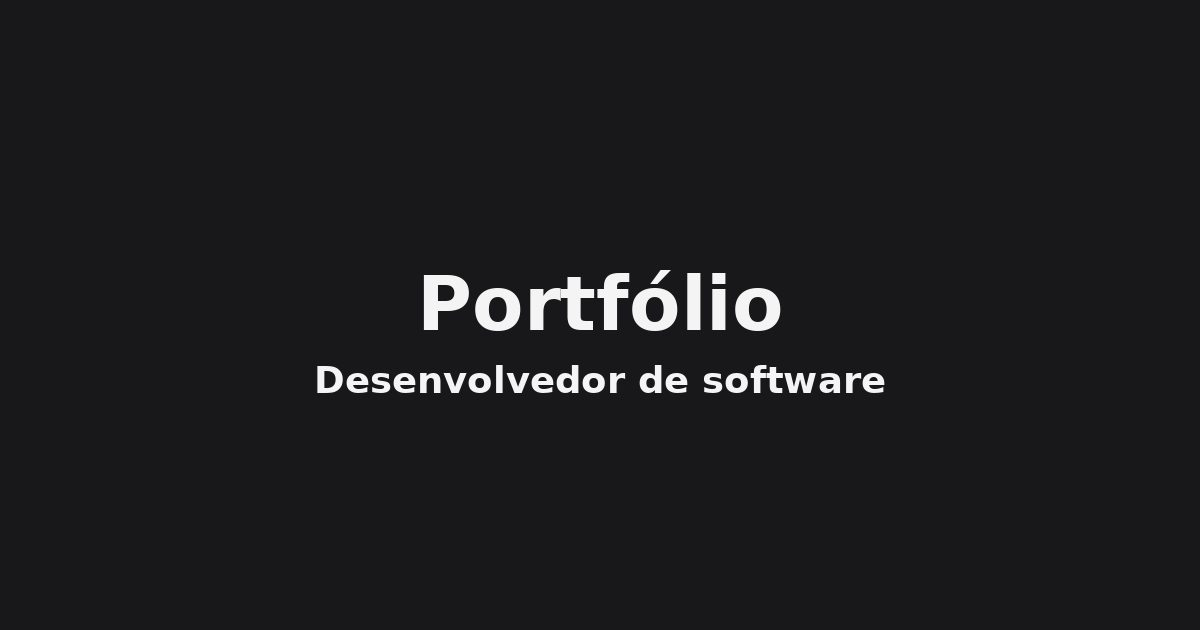
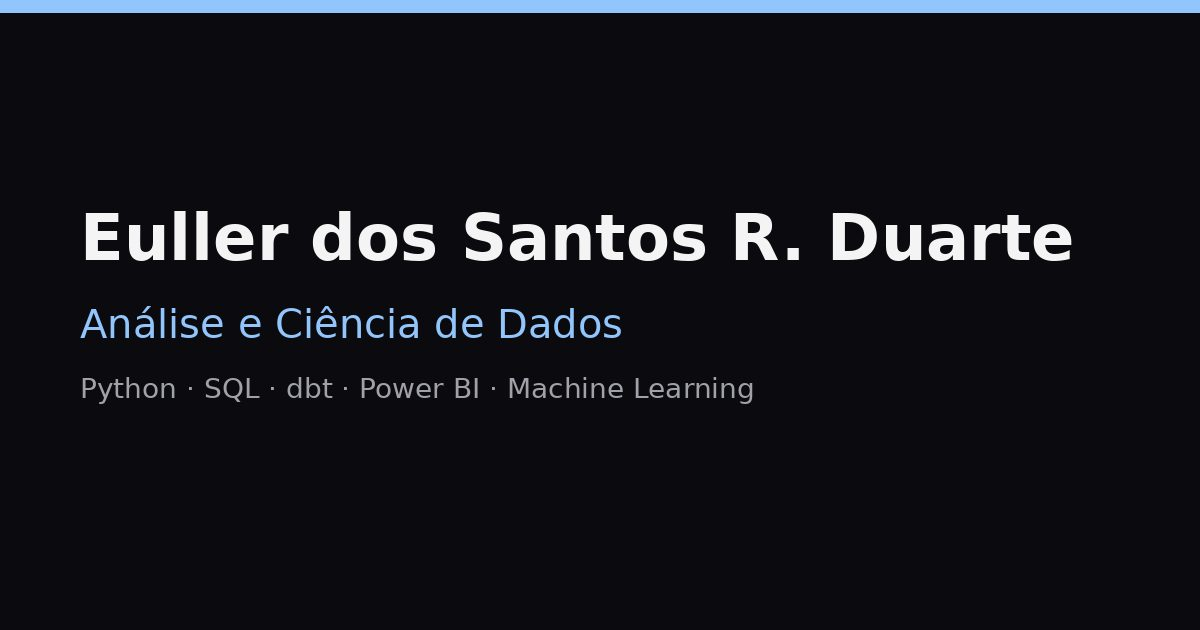
feat(content): preenche perfil, stack e contato reais
Conteúdo provisório trocado pelos dados do perfil público no GitHub:
- nome, área (Análise e Ciência de Dados), descrição e bio
- e-mail de contato no rodapé, na seção Contato e no JSON-LD
- seção Sobre com a lista de ferramentas (TechBadge)
- avatar: monograma "ED" decorativo (alt vazio) até existir foto
- imagem Open Graph com nome, área e stack principal

Changed region(s): [[0.0617, 0.3317, 0.8942, 0.5429], [0.0617, 0.573, 0.74, 0.6333], [0.0, 0.0, 1.0, 0.0302]]

diff --git a/src/data/site.ts b/src/data/site.ts
@@ -8,6 +8,11 @@ export interface SiteConfig {
   name: string;
   jobTitle: string;
   description: string;
+  email: string;
+  /** Texto alternativo do avatar; vazio enquanto ele for só um monograma decorativo. */
+  avatarAlt: string;
+  /** Ferramentas exibidas na seção Sobre. */
+  skills: string[];
   locale: string;
   /** Caminho relativo a `public/`, sem barra inicial. */
   ogImage: string;
@@ -18,14 +23,36 @@ export interface SiteConfig {
 }
 
 export const site: SiteConfig = {
-  name: 'Euller Santos Duarte',
-  jobTitle: 'Desenvolvedor de Software',
+  name: 'Euller dos Santos R. Duarte',
+  jobTitle: 'Análise e Ciência de Dados',
   description:
-    'Portfólio de Euller Santos Duarte: projetos, tecnologias e contato de um desenvolvedor de software.',
+    'Portfólio de Euller dos Santos R. Duarte, graduando em Engenharia Elétrica com foco em Análise e Ciência de Dados: projetos de machine learning, dados e BI.',
+  email: 'Euller.Santos.Duarte@gmail.com',
+  avatarAlt: '',
+  skills: [
+    'Python',
+    'Polars',
+    'Pandas',
+    'NumPy',
+    'Scikit-learn',
+    'Matplotlib',
+    'Jupyter',
+    'Hugging Face',
+    'SQL',
+    'PostgreSQL',
+    'dbt',
+    'Databricks',
+    'BigQuery',
+    'Power BI',
+    'Looker',
+    'Docker',
+    'Git',
+    'Linux',
+  ],
   locale: 'pt_BR',
   ogImage: 'images/og-image.jpg',
-  ogImageAlt: 'Cartão com o texto Portfólio, Desenvolvedor de software',
-  // resumePath: 'docs/curriculo-euller-santos-duarte.pdf',
+  ogImageAlt: 'Euller dos Santos R. Duarte, Análise e Ciência de Dados',
+  // resumePath: 'docs/curriculo-euller-duarte.pdf',
   social: [{ label: 'GitHub', href: 'https://github.com/euuuller' }],
 };
 

diff --git a/README.md b/README.md
@@ -47,7 +47,7 @@ Fluxo: código-fonte → `astro build` (SSG) → `dist/` estático → GitHub Pa
 - **Currículo:** adicione o PDF em `public/docs/` e descomente `resumePath` em `site.ts`. O botão só aparece com o campo preenchido.
 - **Imagem Open Graph:** `public/images/og-image.jpg`, 1200×630, ≤ 150 KB.
 
-As imagens atuais são placeholders. Mantenha nomes e dimensões ao substituí-las: o HTML declara `width` e `height` fixos para evitar CLS.
+O avatar atual é um monograma provisório (com `avatarAlt` vazio, por ser decorativo) e as capas dos projetos são geradas. Mantenha nomes e dimensões ao substituí-los: o HTML declara `width` e `height` fixos para evitar CLS.
 
 Os arquivos em `public/` não recebem hash. Ao trocar uma imagem, o navegador pode servir a versão antiga até o cache expirar (o GitHub Pages usa `max-age=600`). Use um nome novo quando a atualização precisar ser imediata.
 
